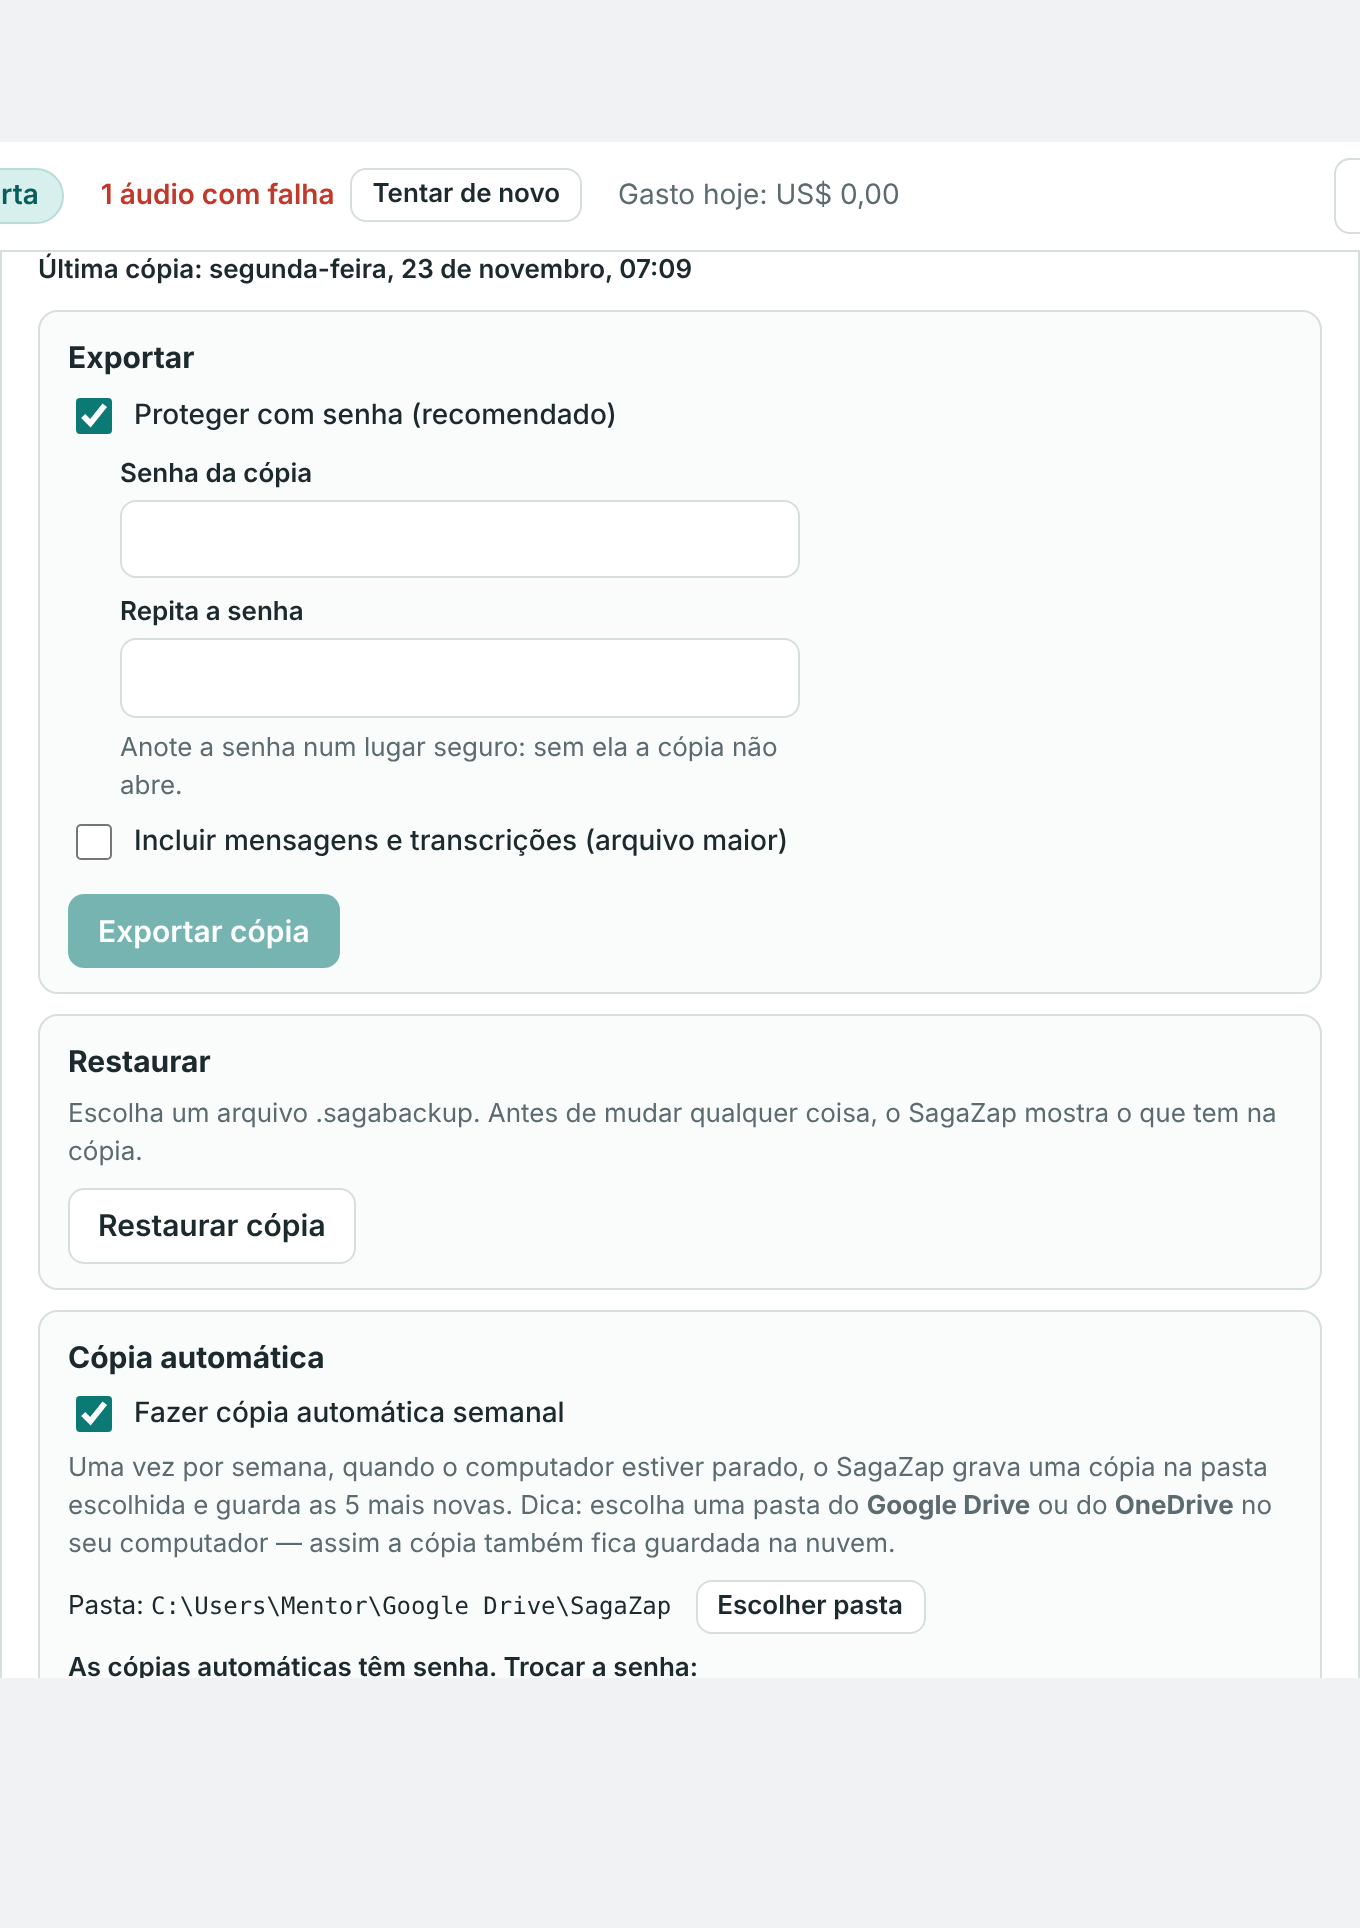
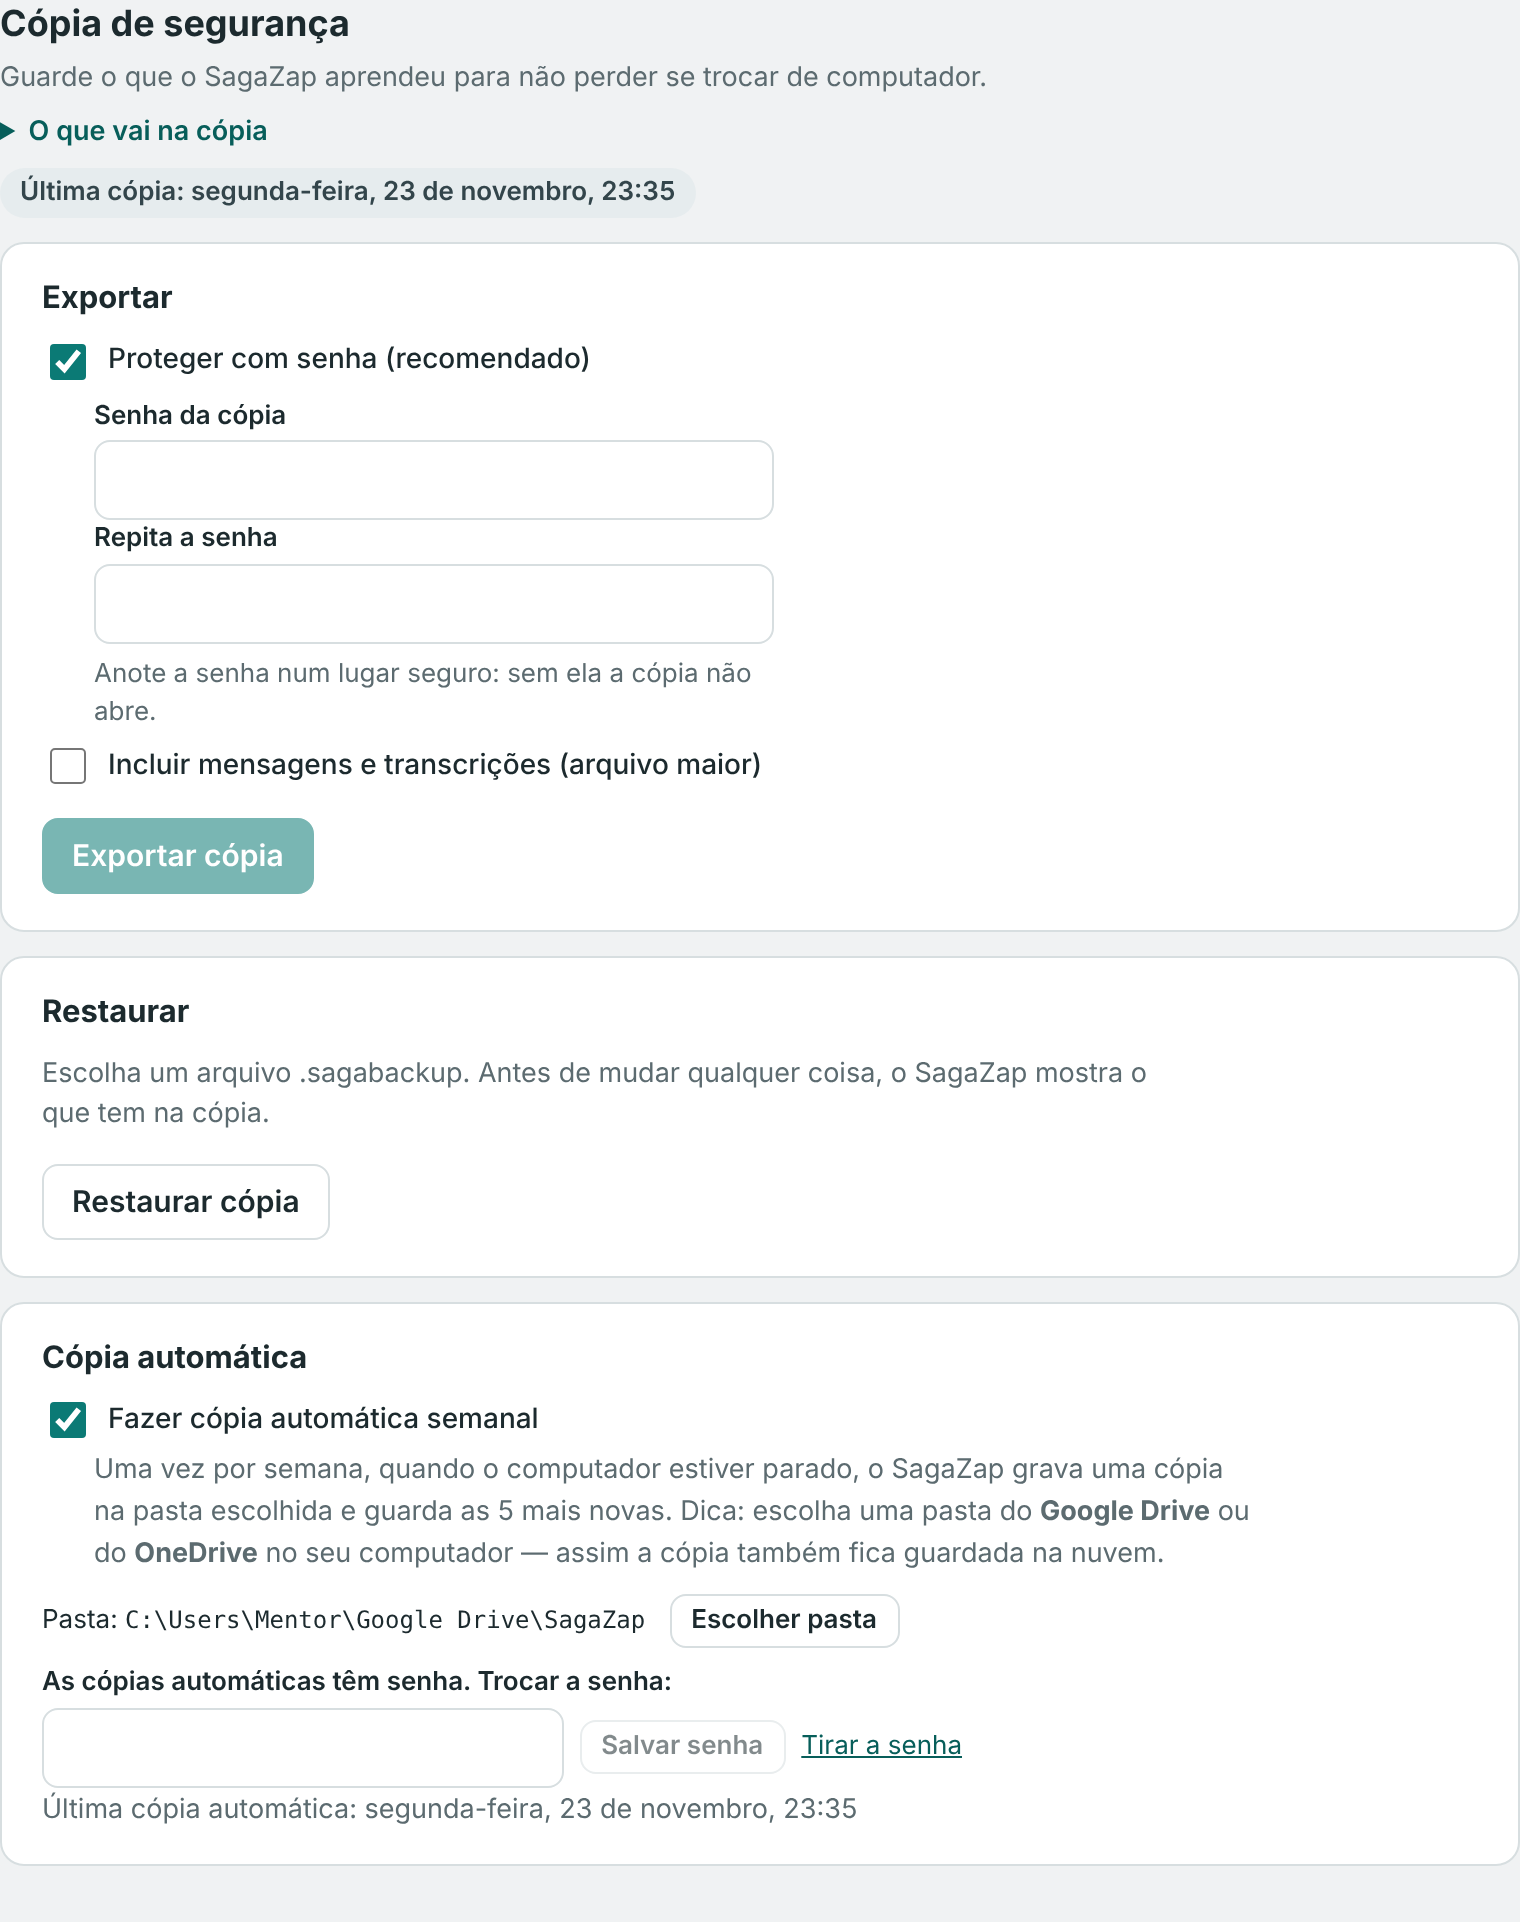
docs: Configurações reorganizadas no guia e imagens novas; v0.8.2
Claude-Session: https://claude.ai/code/session_01Mkn95kvNhg8Mu9zouyonaq

diff --git a/docs/guia-instalacao.md b/docs/guia-instalacao.md
@@ -68,6 +68,8 @@ O SagaZap traz os últimos 30 dias de conversas e baixa os áudios aos poucos, d
 
 ![Tela principal](img/05-tela-principal.png)
 
+**Configurações** (botão na barra de cima) tem um menu à esquerda com seis partes: **Inteligência artificial** (quem escreve e quem transcreve, chaves, IAs de reserva, gasto e qualidade dos alertas), **Envio de mensagens** (envio direto e horário de envio), **Copiloto da Saga**, **Base de conhecimento**, **Cópia de segurança** e **Aplicativo** (tema, iniciar com o Windows, atualizações, diagnóstico e eventos recentes). Os textos mais longos ficam fechados: clique na linha verde (por exemplo **Limites de segurança**) para abrir.
+
 - **Esquerda:** as conversas, pessoas e grupos. O selo "há 3 h" indica que alguém está aguardando a sua resposta e há quanto tempo (num grupo: a última mensagem não é sua). No topo, escolha **Todos**, **Individuais** ou **Grupos**; o SagaZap lembra a escolha. A busca procura pessoas e grupos.
 - **Meio:** a conversa, com os áudios já transcritos e o resumo "O que a pessoa quer". Nos grupos, cada mensagem mostra o nome de quem mandou, as que mencionam você aparecem marcadas, e o resumo se chama "O que pedem a você": perguntas e pedidos para você, não um resumo do grupo inteiro.
 - **Direita:** sugestões de resposta (num grupo, mensagens para você postar no grupo). Edite como quiser e clique em **Enviar** (você confirma cada envio; veja "Enviar pelo SagaZap" abaixo), ou clique em **Copiar** e cole no WhatsApp. **Enviar**, **Copiar** e **Salvar** escolhem a resposta: as outras sugestões somem e ela fica marcada como "✓ Resposta escolhida" (**Mostrar as outras sugestões** traz elas de volta). Escolher guarda a sua versão final, e também o que você deixou de lado, para o SagaZap aprender o seu jeito. **Gerar novas** pede outras sugestões.
@@ -234,7 +236,7 @@ O botão **Enviar** só funciona com o WhatsApp **Conectado**; sem conexão, a c
 
 Você escolhe em que dias e horários o SagaZap pode enviar. O padrão é **de segunda a sexta, das 09:00 às 18:00**; sábado e domingo ficam sem envio.
 
-Para mudar, vá em **Configurações › Envio direto › Horário de envio**. Em cada dia, marque se pode enviar e escolha o horário de início e de fim (de 15 em 15 minutos). Vale o relógio do seu computador. Para enviar a qualquer hora, desmarque **Só enviar nos dias e horários abaixo**.
+Para mudar, vá em **Configurações › Envio de mensagens › Horário de envio**. Em cada dia, marque se pode enviar e escolha o horário de início e de fim (de 15 em 15 minutos). Vale o relógio do seu computador. Para enviar a qualquer hora, desmarque **Só enviar nos dias e horários abaixo**.
 
 ![Configurações › Horário de envio](img/config-horario-envio.png)
 
@@ -286,7 +288,7 @@ Chave do Gemini:
 
 1. Abra <https://aistudio.google.com/apikey> e entre com a sua conta Google.
 2. Clique em **Get API key** (ou **Create API key**) e copie a chave.
-3. No SagaZap, abra **Configurações › Chaves de acesso › IAs gratuitas de reserva**, clique em **Adicionar** ao lado de
+3. No SagaZap, abra **Configurações › Inteligência artificial › IAs gratuitas de reserva**, clique em **Adicionar** ao lado de
    **Gemini (Google, gratuito)**, cole a chave, clique em **Testar** e depois em **Salvar**.
 
 Chave do Mistral:

diff --git a/README.md b/README.md
@@ -1,6 +1,6 @@
 # SagaZap
 
-Aplicativo de desktop (Windows) que lê as conversas (individuais e grupos) do WhatsApp do mentor dos últimos 30 dias, transcreve os áudios e sugere respostas para ele revisar, copiar ou enviar. Desde a 0.4.0 o app envia respostas, **só com a confirmação explícita do mentor a cada envio** e em ritmo lento. Desde a 0.6.0 também envia mensagens avulsas (fora das sugestões), pelo mesmo caminho e com as mesmas regras. Desde a 0.5.0, se o mentor ligar, envia ao Copiloto da Saga só as conversas dos mentorados cadastrados lá (contrato em `docs/superpowers/specs/2026-11-26-copiloto-integration.md`). Desde a 0.7.0, mostra os follow-ups que a equipe escreve no Copiloto e envia, como mensagem avulsa, só depois da confirmação do mentor. Desde a 0.8.0, com a opção "Enviar follow-ups do Copiloto automaticamente" ligada (vem desligada), os follow-ups que o Copiloto marcar como automáticos saem sem a tela de confirmação, pelo mesmo caminho e com as mesmas travas, só no horário de envio e até 30 por dia. Na 0.8.1, os grupos dos mentorados chegam ao Copiloto assim que a participação fica conhecida (com reenvio único do histórico deles e o botão "Reenviar histórico dos grupos"), e os nomes dos grupos não se perdem mais.
+Aplicativo de desktop (Windows) que lê as conversas (individuais e grupos) do WhatsApp do mentor dos últimos 30 dias, transcreve os áudios e sugere respostas para ele revisar, copiar ou enviar. Desde a 0.4.0 o app envia respostas, **só com a confirmação explícita do mentor a cada envio** e em ritmo lento. Desde a 0.6.0 também envia mensagens avulsas (fora das sugestões), pelo mesmo caminho e com as mesmas regras. Desde a 0.5.0, se o mentor ligar, envia ao Copiloto da Saga só as conversas dos mentorados cadastrados lá (contrato em `docs/superpowers/specs/2026-11-26-copiloto-integration.md`). Desde a 0.7.0, mostra os follow-ups que a equipe escreve no Copiloto e envia, como mensagem avulsa, só depois da confirmação do mentor. Desde a 0.8.0, com a opção "Enviar follow-ups do Copiloto automaticamente" ligada (vem desligada), os follow-ups que o Copiloto marcar como automáticos saem sem a tela de confirmação, pelo mesmo caminho e com as mesmas travas, só no horário de envio e até 30 por dia. Na 0.8.1, os grupos dos mentorados chegam ao Copiloto assim que a participação fica conhecida (com reenvio único do histórico deles e o botão "Reenviar histórico dos grupos"), e os nomes dos grupos não se perdem mais. Na 0.8.2, a tela de Configurações foi reorganizada em seis partes com um menu lateral (sem mudar nenhuma opção) e ficou com uma barra de rolagem só.
 
 Para instalar no Windows, veja o [guia de instalação](docs/guia-instalacao.md).
 
